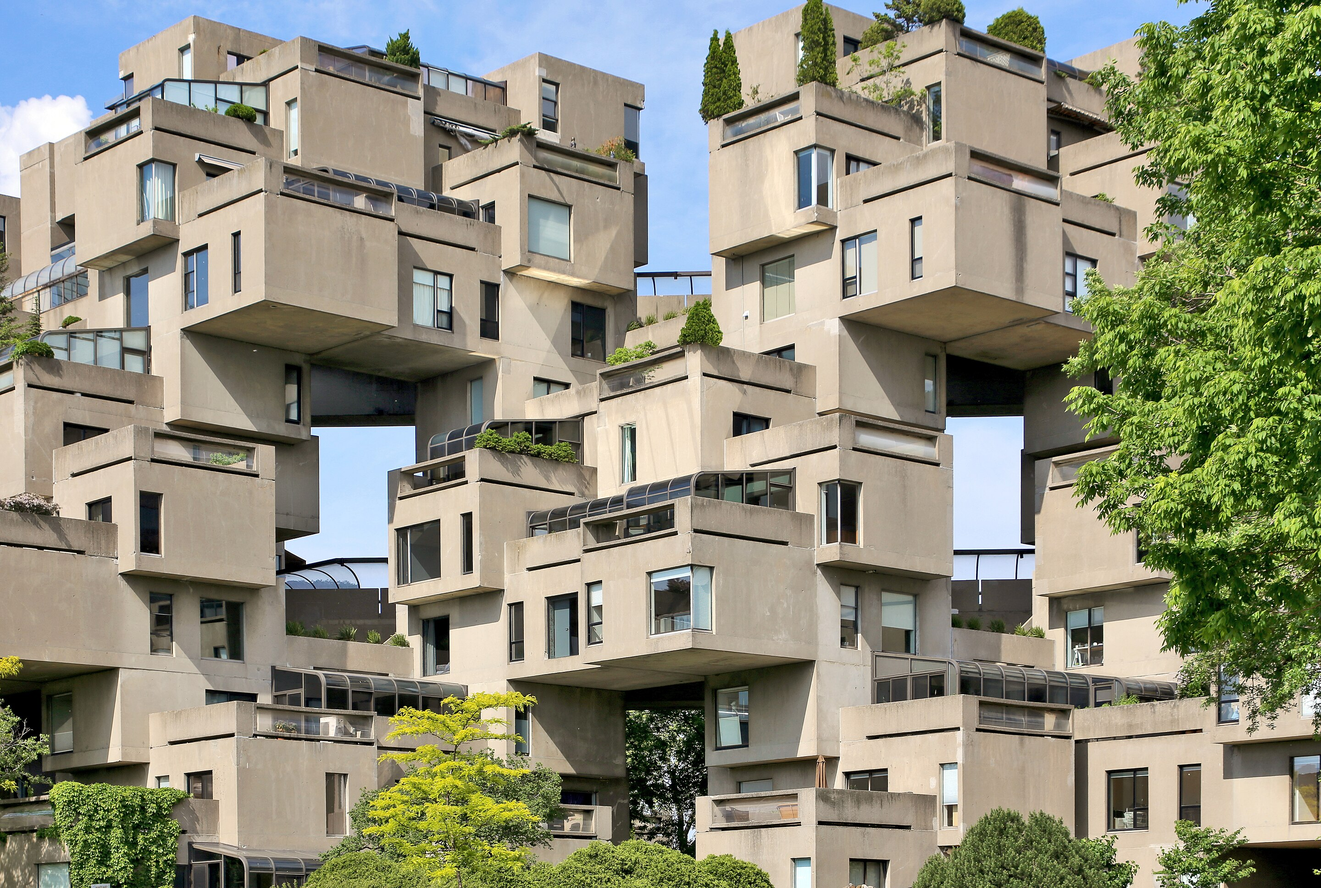
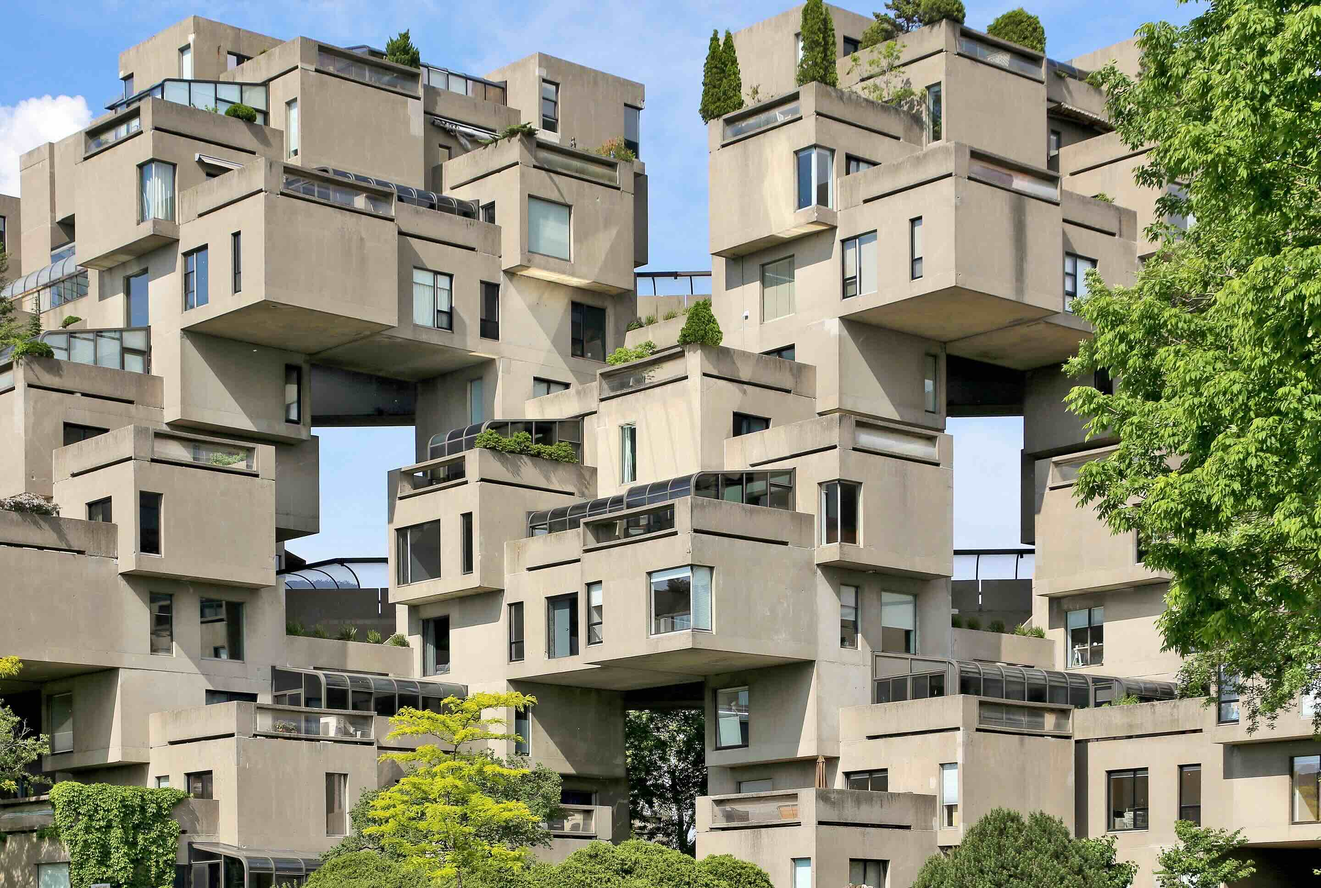
Commit bananinha

diff --git a/index.html b/index.html
@@ -480,7 +480,7 @@
 <section id="o-el-habitat-67-1967" class="slide level2">
 <h2>O el Habitat 67 (1967)…</h2>
 
-<img data-src="img/habitat_67.jpeg" width="800" class="r-stretch quarto-figure-center"></section>
+<img data-src="img/habitat_67.jpg" width="800" class="r-stretch quarto-figure-center"></section>
 <section id="o-la-lego-house-2017" class="slide level2">
 <h2>O la LEGO House (2017)…</h2>
 
